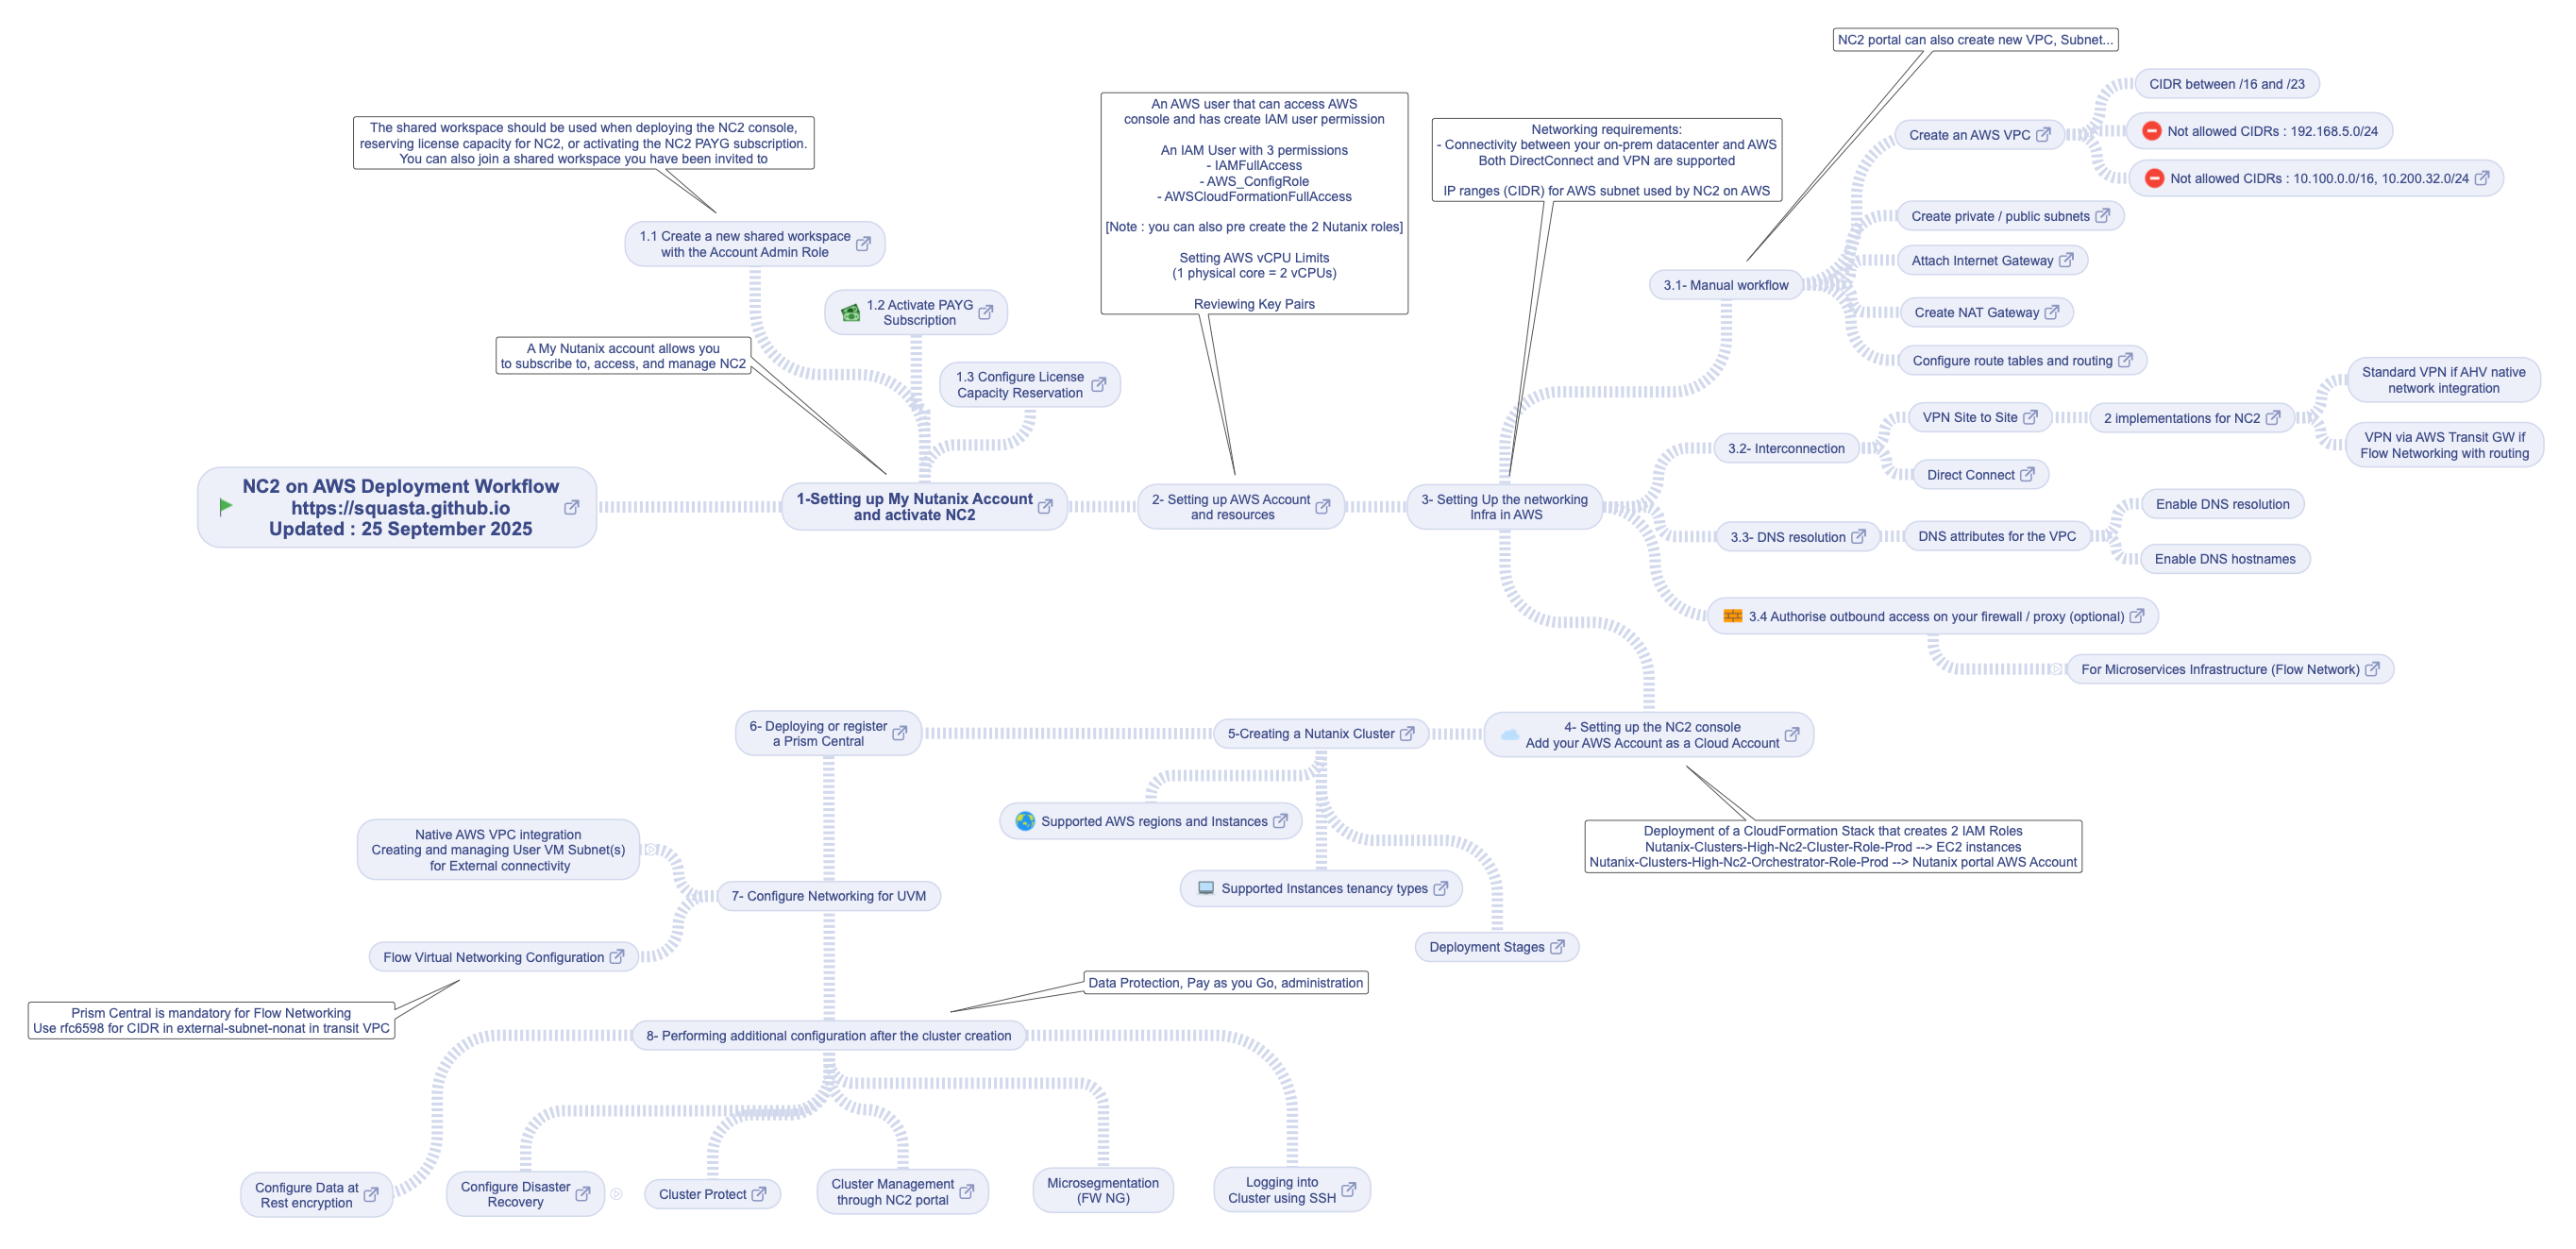
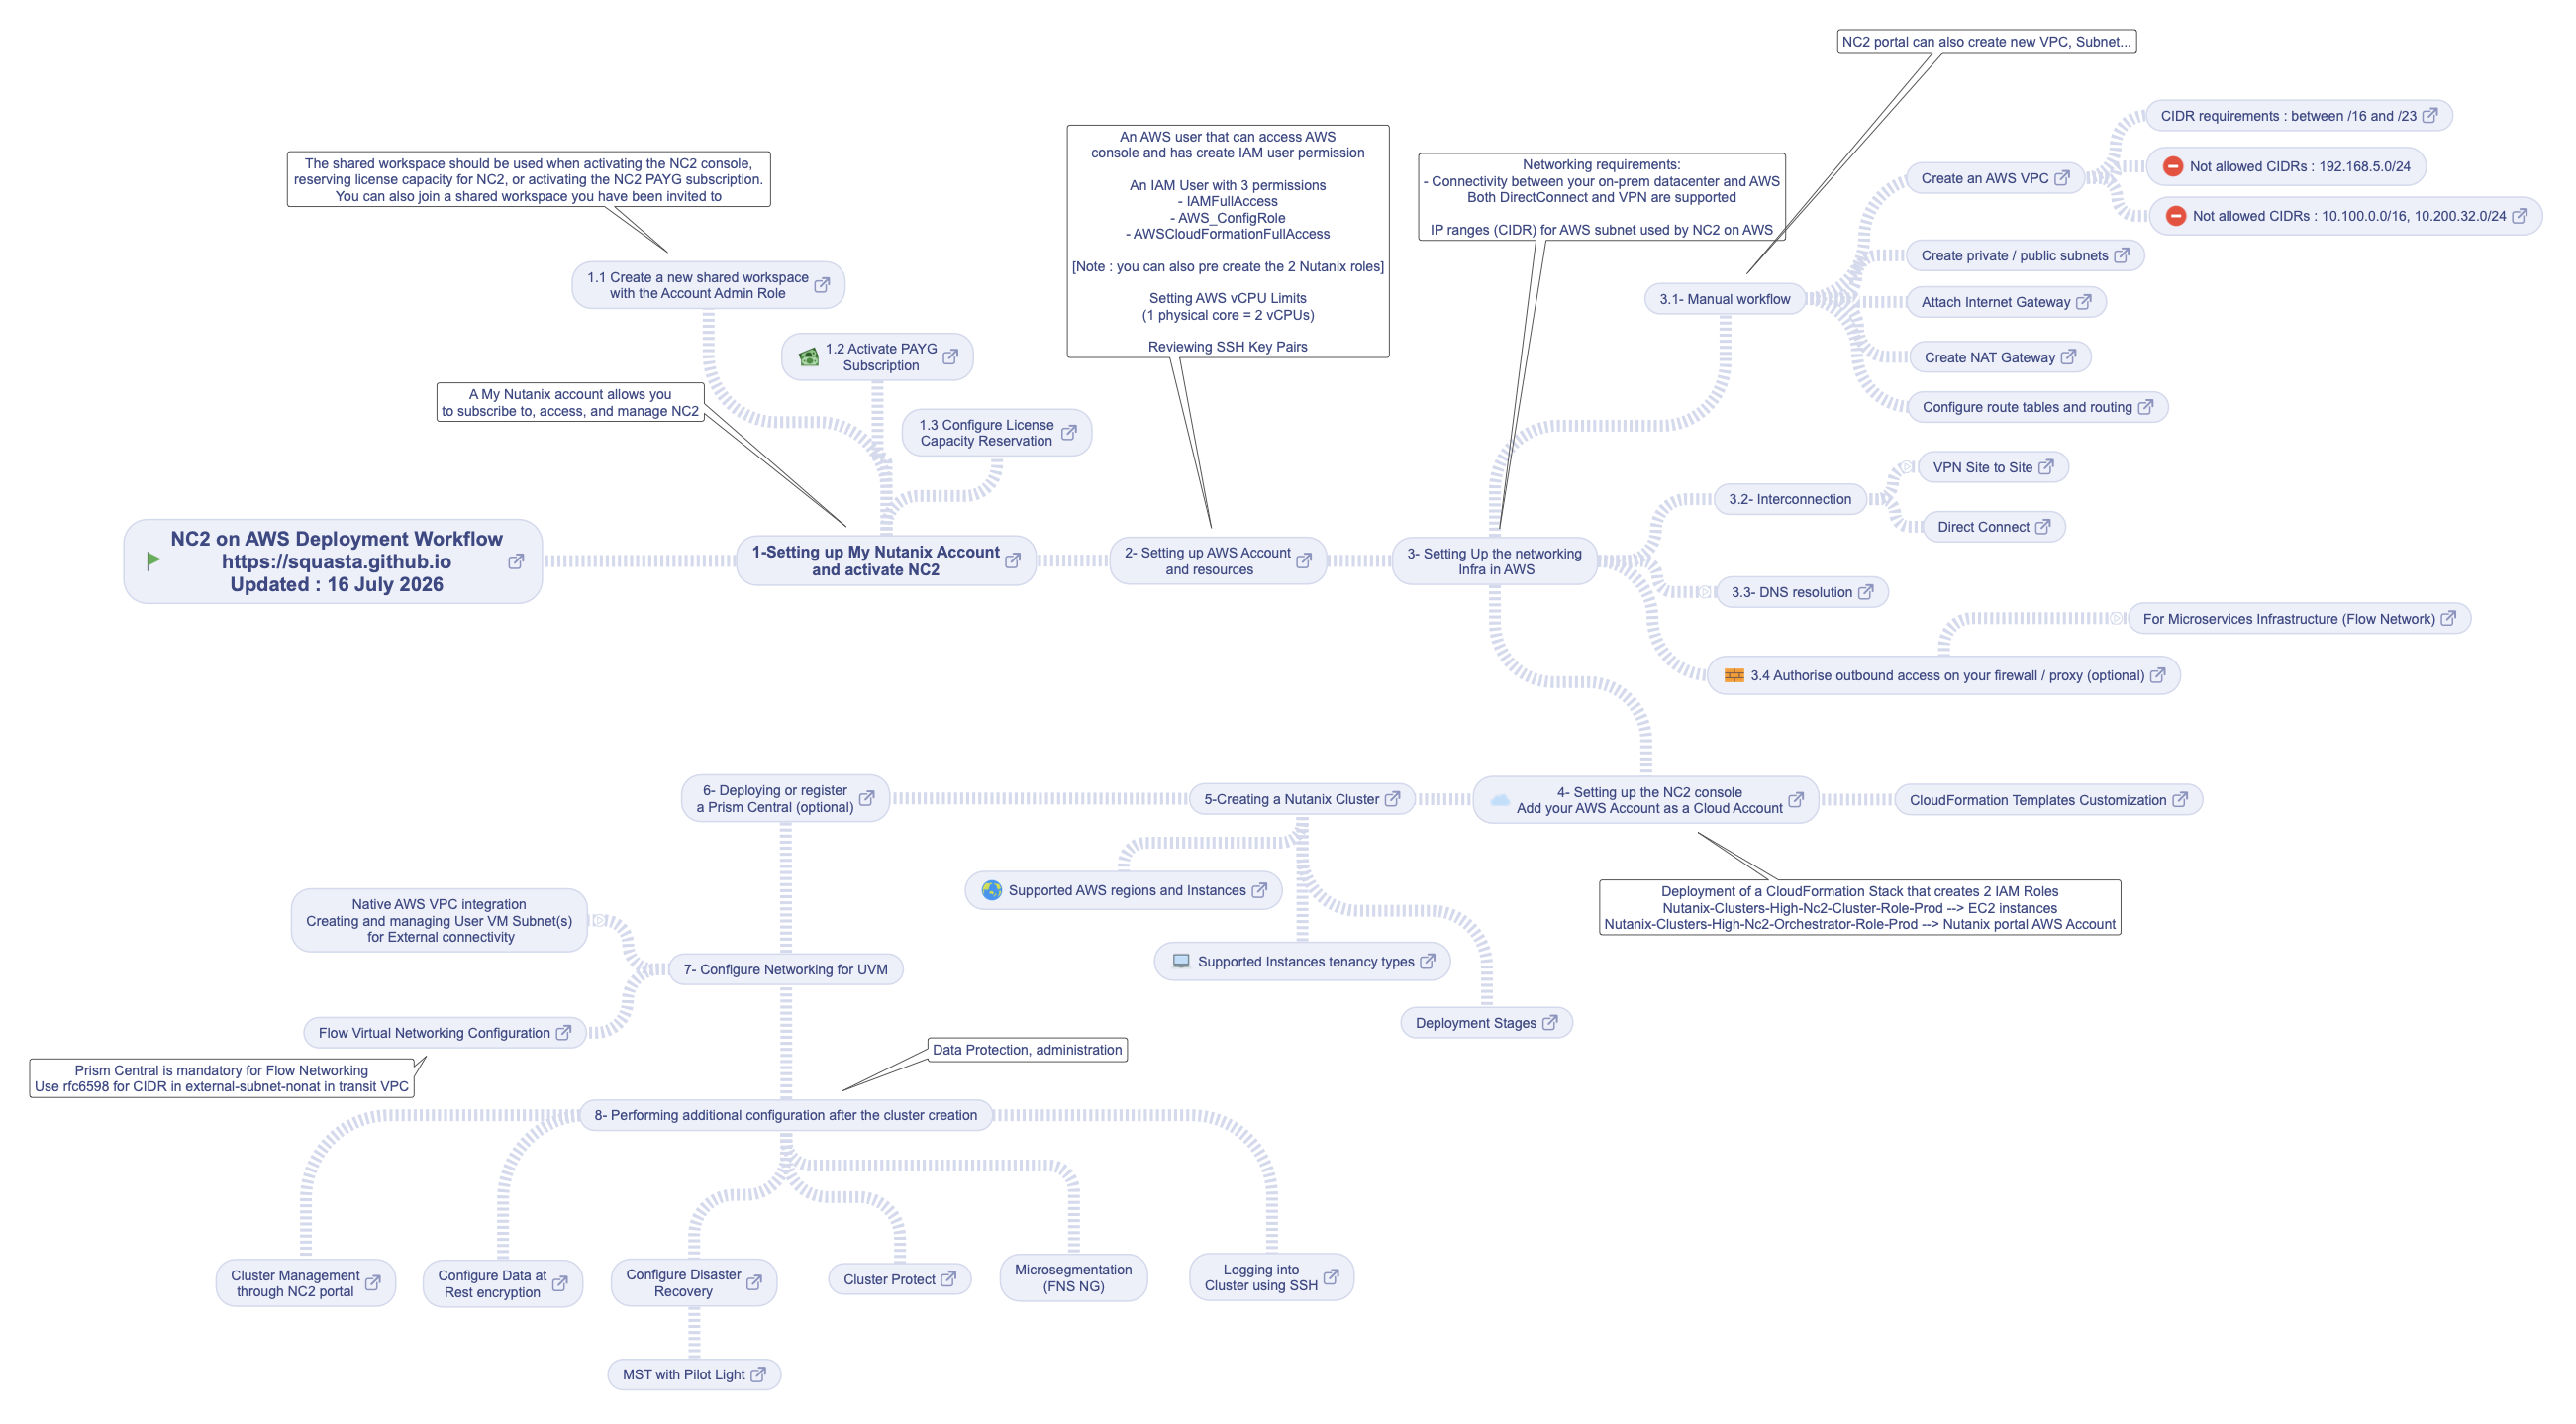
update

Changed region(s): [[0.0623, 0.0, 0.9962, 0.7748], [0.0, 0.6198, 0.5292, 0.9917]]

diff --git a/nc2onawsdeploymentworkflow.html b/nc2onawsdeploymentworkflow.html
@@ -7,42 +7,45 @@
     <body>
         <img src="nc2onawsdeploymentworkflow.png" border="none" usemap="#map"></img>
         <map name="map">
-            <area shape="rect" coords="598,529,614,545" href="https://portal.nutanix.com/page/documents/details?targetId=Nutanix-Cloud-Clusters-Azure:nc2-clusters-azure-requirements-for-nc2-on-azure-c.html" target="_blank"></area>
-            <area shape="rect" coords="1099,529,1115,545" href="https://portal.nutanix.com/page/documents/details?targetId=Nutanix-Clusters-AWS:nc2-clusters-starting-a-nc2-free-trial-t.html" target="_blank"></area>
-            <area shape="rect" coords="1393,529,1409,545" href="https://portal.nutanix.com/page/documents/details?targetId=Nutanix-Clusters-AWS:aws-clusters-aws-requirements-c.html" target="_blank"></area>
-            <area shape="rect" coords="1890,770,1906,786" href="https://portal.nutanix.com/page/documents/details?targetId=Nutanix-Clusters-AWS:aws-clusters-aws-account-add-t.html" target="_blank"></area>
-            <area shape="rect" coords="1483,769,1499,785" href="https://portal.nutanix.com/page/documents/details?targetId=Nutanix-Clusters-AWS:aws-clusters-aws-cluster-create-t.html" target="_blank"></area>
-            <area shape="rect" coords="1348,862,1364,878" href="https://portal.nutanix.com/page/documents/details?targetId=Nutanix-Clusters-AWS:aws-clusters-aws-xi-supported-regions-metals.html" target="_blank"></area>
-            <area shape="rect" coords="945,769,961,785" href="https://portal.nutanix.com/page/documents/details?targetId=Nutanix-Clusters-AWS:aws-nc2-deploying-configuring-prismcentral-t.html" target="_blank"></area>
-            <area shape="rect" coords="609,1257,625,1273" href="https://portal.nutanix.com/page/documents/details?targetId=Nutanix-Clusters-AWS:aws-clusters-aws-backup-and-recovery-c.html" target="_blank"></area>
-            <area shape="rect" coords="570,1370,586,1386" href="https://portal.nutanix.com/page/documents/details?targetId=Disaster-Recovery-DRaaS-Guide-vpc_2024_2:ecd-mst_dr_with_pilot_light_deployment-c.html" target="_blank"></area>
-            <area shape="rect" coords="796,1257,812,1273" href="https://portal.nutanix.com/page/documents/details?targetId=Nutanix-Clusters-AWS:aws-cluster-protect-aws-s3-c.html" target="_blank"></area>
-            <area shape="rect" coords="1016,1254,1032,1270" href="https://portal.nutanix.com/page/documents/details?targetId=Nutanix-Clusters-AWS:aws-clusters-aws-cluster-management-c.html" target="_blank"></area>
-            <area shape="rect" coords="385,1257,401,1273" href="https://portal.nutanix.com/page/documents/details?targetId=Nutanix-Security-Guide-v6_8%3Awc-security-data-encryption-aos-wc-c.html&amp;a=0960a9a533e6378e704a6994d19e98000b436494fb5ad1964d847887d3c7ae63488d6c128249eba2" target="_blank"></area>
-            <area shape="rect" coords="1421,1252,1437,1268" href="https://portal.nutanix.com/page/documents/details?targetId=Nutanix-Clusters-AWS:aws-clusters-aws-using-ssh-log-in-t.html" target="_blank"></area>
-            <area shape="rect" coords="219,786,235,802" href="https://portal.nutanix.com/page/documents/details?targetId=Nutanix-Clusters-AWS:aws-clusters_aws_subnet_add_t_dita.html" target="_blank"></area>
-            <area shape="rect" coords="221,832,237,848" href="https://portal.nutanix.com/page/documents/details?targetId=Nutanix-Clusters-AWS:aws-clusters-aws-network-interface-add-t.html" target="_blank"></area>
-            <area shape="rect" coords="226,888,242,904" href="https://portal.nutanix.com/page/documents/details?targetId=Nutanix-Clusters-AWS:aws-clusters-aws-outbound-internet-access-to-uvms-enable-t.html" target="_blank"></area>
-            <area shape="rect" coords="225,955,241,971" href="https://portal.nutanix.com/page/documents/details?targetId=Nutanix-Clusters-AWS:aws-clusters-aws-load-balancer-inbound-internet-access-to-uvms-enable-t.html" target="_blank"></area>
-            <area shape="rect" coords="645,1005,661,1021" href="https://portal.nutanix.com/page/documents/details?targetId=Nutanix-Clusters-AWS:aws-aws_flow_virtual_networking_configuration_c.html" target="_blank"></area>
-            <area shape="rect" coords="1518,933,1534,949" href="https://portal.nutanix.com/page/documents/details?targetId=Nutanix-Clusters-AWS:nc2-clusters-ec2-instance-tenancy-types-c.html" target="_blank"></area>
-            <area shape="rect" coords="1642,995,1658,1011" href="https://portal.nutanix.com/page/documents/details?targetId=Nutanix-Clusters-AWS:aws-clusters-aws-deployment-models-c.html" target="_blank"></area>
-            <area shape="rect" coords="2157,135,2173,151" href="https://portal.nutanix.com/page/documents/details?targetId=Nutanix-Clusters-AWS:aws-aws-resource-setup-manual-t.html" target="_blank"></area>
-            <area shape="rect" coords="2621,181,2637,197" href="https://portal.nutanix.com/page/documents/details?targetId=Prism-Central-Guide-vpc_7_3:mul-cmsp-req-and-limitations-pc-r.html" target="_blank"></area>
-            <area shape="rect" coords="2219,220,2235,236" href="https://portal.nutanix.com/page/documents/details?targetId=Nutanix-Clusters-AWS:aws-aws-create-subnet-t.html" target="_blank"></area>
-            <area shape="rect" coords="2181,267,2197,283" href="https://portal.nutanix.com/page/documents/details?targetId=Nutanix-Clusters-AWS:aws-aws-create-internet-gateway-t.html" target="_blank"></area>
-            <area shape="rect" coords="2166,323,2182,339" href="https://portal.nutanix.com/page/documents/details?targetId=Nutanix-Clusters-AWS:aws-aws-create-NAT-GW-t.html" target="_blank"></area>
-            <area shape="rect" coords="2244,373,2260,389" href="https://portal.nutanix.com/page/documents/details?targetId=Nutanix-Clusters-AWS:aws-aws-configure-route-t.html" target="_blank"></area>
-            <area shape="rect" coords="2143,434,2159,450" href="https://docs.aws.amazon.com/vpn/latest/s2svpn/VPC_VPN.html" target="_blank"></area>
-            <area shape="rect" coords="2400,434,2416,450" href="https://portal.nutanix.com/page/documents/solutions/details?targetId=BP-2202-NC2-AWS-Networking:creating-amazon-web-services-site-to-site-virtual-private-network-connections.html" target="_blank"></area>
-            <area shape="rect" coords="2140,494,2156,510" href="https://docs.aws.amazon.com/directconnect/latest/UserGuide/Welcome.html" target="_blank"></area>
-            <area shape="rect" coords="1961,560,1977,576" href="https://portal.nutanix.com/page/documents/details?targetId=Nutanix-Clusters-AWS:aws-clusters-aws-requirements-c.html" target="_blank"></area>
-            <area shape="rect" coords="2256,644,2272,660" href="https://portal.nutanix.com/page/documents/details?targetId=Nutanix-Clusters-AWS:aws-clusters-aws-port-endpoints-requirements-c.html" target="_blank"></area>
-            <area shape="rect" coords="2505,701,2521,717" href="https://portal.nutanix.com/page/documents/kbs/details?targetId=kA07V000000LevaSAC" target="_blank"></area>
-            <area shape="rect" coords="2646,743,2662,759" href="https://portal.nutanix.com/page/documents/list?type=software&amp;filterKey=software&amp;filterVal=Ports%20and%20Protocols&amp;productType=Microservices%20Infrastructure" target="_blank"></area>
-            <area shape="rect" coords="907,250,923,266" href="https://portal.nutanix.com/page/documents/details?targetId=Xi-Cloud-Services-Administration-Guide:adm-nutanix-cloud-creating-workspace-t.html" target="_blank"></area>
-            <area shape="rect" coords="1156,399,1172,415" href="https://portal.nutanix.com/page/documents/details?targetId=Nutanix-Clusters-AWS:nc2-clusters-reserving-license-capacity-for-use-on-nc2-t.html" target="_blank"></area>
-            <area shape="rect" coords="1036,323,1052,339" href="https://portal.nutanix.com/page/documents/details?targetId=Nutanix-Clusters-AWS:nc2-clusters-payg-subscriptions-c.html" target="_blank"></area>
+            <area shape="rect" coords="513,559,529,575" href="https://portal.nutanix.com/page/documents/details?targetId=Nutanix-Cloud-Clusters-Azure:nc2-clusters-azure-requirements-for-nc2-on-azure-c.html" target="_blank"></area>
+            <area shape="rect" coords="1015,558,1031,574" href="https://portal.nutanix.com/page/documents/details?targetId=Nutanix-Clusters-AWS:nc2-clusters-starting-a-nc2-free-trial-t.html" target="_blank"></area>
+            <area shape="rect" coords="1309,558,1325,574" href="https://portal.nutanix.com/page/documents/details?targetId=Nutanix-Clusters-AWS:aws-clusters-aws-requirements-c.html" target="_blank"></area>
+            <area shape="rect" coords="1806,800,1822,816" href="https://portal.nutanix.com/page/documents/details?targetId=Nutanix-Clusters-AWS:aws-clusters-aws-account-add-t.html" target="_blank"></area>
+            <area shape="rect" coords="1398,799,1414,815" href="https://portal.nutanix.com/page/documents/details?targetId=Nutanix-Clusters-AWS:aws-clusters-aws-cluster-create-t.html" target="_blank"></area>
+            <area shape="rect" coords="1264,891,1280,907" href="https://portal.nutanix.com/page/documents/details?targetId=Nutanix-Clusters-AWS:aws-clusters-aws-xi-supported-regions-metals.html" target="_blank"></area>
+            <area shape="rect" coords="867,798,883,814" href="https://portal.nutanix.com/page/documents/details?targetId=Nutanix-Clusters-AWS:aws-nc2-deploying-configuring-prismcentral-t.html" target="_blank"></area>
+            <area shape="rect" coords="754,1287,770,1303" href="https://portal.nutanix.com/page/documents/details?targetId=Nutanix-Clusters-AWS:aws-clusters-aws-backup-and-recovery-c.html" target="_blank"></area>
+            <area shape="rect" coords="758,1380,774,1396" href="https://portal.nutanix.com/page/documents/details?targetId=Disaster-Recovery-DRaaS-Guide-vpc_2024_2:ecd-mst_dr_with_pilot_light_deployment-c.html" target="_blank"></area>
+            <area shape="rect" coords="950,1283,966,1299" href="https://portal.nutanix.com/page/documents/details?targetId=Nutanix-Clusters-AWS:aws-cluster-protect-aws-s3-c.html" target="_blank"></area>
+            <area shape="rect" coords="369,1287,385,1303" href="https://portal.nutanix.com/page/documents/details?targetId=Nutanix-Clusters-AWS:aws-clusters-aws-cluster-management-c.html" target="_blank"></area>
+            <area shape="rect" coords="558,1288,574,1304" href="https://portal.nutanix.com/page/documents/details?targetId=Nutanix-Security-Guide-v6_8%3Awc-security-data-encryption-aos-wc-c.html&amp;a=0960a9a533e6378e704a6994d19e98000b436494fb5ad1964d847887d3c7ae63488d6c128249eba2" target="_blank"></area>
+            <area shape="rect" coords="1337,1282,1353,1298" href="https://portal.nutanix.com/page/documents/details?targetId=Nutanix-Clusters-AWS:aws-clusters-aws-using-ssh-log-in-t.html" target="_blank"></area>
+            <area shape="rect" coords="135,815,151,831" href="https://portal.nutanix.com/page/documents/details?targetId=Nutanix-Clusters-AWS:aws-clusters_aws_subnet_add_t_dita.html" target="_blank"></area>
+            <area shape="rect" coords="136,862,152,878" href="https://portal.nutanix.com/page/documents/details?targetId=Nutanix-Clusters-AWS:aws-clusters-aws-network-interface-add-t.html" target="_blank"></area>
+            <area shape="rect" coords="141,918,157,934" href="https://portal.nutanix.com/page/documents/details?targetId=Nutanix-Clusters-AWS:aws-clusters-aws-outbound-internet-access-to-uvms-enable-t.html" target="_blank"></area>
+            <area shape="rect" coords="140,985,156,1001" href="https://portal.nutanix.com/page/documents/details?targetId=Nutanix-Clusters-AWS:aws-clusters-aws-load-balancer-inbound-internet-access-to-uvms-enable-t.html" target="_blank"></area>
+            <area shape="rect" coords="561,1035,577,1051" href="https://portal.nutanix.com/page/documents/details?targetId=Nutanix-Clusters-AWS:aws-aws_flow_virtual_networking_configuration_c.html" target="_blank"></area>
+            <area shape="rect" coords="1434,963,1450,979" href="https://portal.nutanix.com/page/documents/details?targetId=Nutanix-Clusters-AWS:nc2-clusters-ec2-instance-tenancy-types-c.html" target="_blank"></area>
+            <area shape="rect" coords="1558,1025,1574,1041" href="https://portal.nutanix.com/page/documents/details?targetId=Nutanix-Clusters-AWS:aws-clusters-aws-deployment-models-c.html" target="_blank"></area>
+            <area shape="rect" coords="2194,799,2210,815" href="https://portal.nutanix.com/page/documents/details?targetId=Nutanix-Clusters-AWS:aws-cluster-custom-cloudformation-stack-r.html" target="_blank"></area>
+            <area shape="rect" coords="2075,172,2091,188" href="https://portal.nutanix.com/page/documents/details?targetId=Nutanix-Clusters-AWS:aws-aws-resource-setup-manual-t.html" target="_blank"></area>
+            <area shape="rect" coords="2446,109,2462,125" href="https://portal.nutanix.com/page/documents/details?targetId=Nutanix-Clusters-AWS:aws-clusters-aws-requirements-c.html" target="_blank"></area>
+            <area shape="rect" coords="2537,210,2553,226" href="https://portal.nutanix.com/page/documents/details?targetId=Prism-Central-Guide-vpc_7_3:mul-cmsp-req-and-limitations-pc-r.html" target="_blank"></area>
+            <area shape="rect" coords="2135,250,2151,266" href="https://portal.nutanix.com/page/documents/details?targetId=Nutanix-Clusters-AWS:aws-aws-create-subnet-t.html" target="_blank"></area>
+            <area shape="rect" coords="2097,297,2113,313" href="https://portal.nutanix.com/page/documents/details?targetId=Nutanix-Clusters-AWS:aws-aws-create-internet-gateway-t.html" target="_blank"></area>
+            <area shape="rect" coords="2081,352,2097,368" href="https://portal.nutanix.com/page/documents/details?targetId=Nutanix-Clusters-AWS:aws-aws-create-NAT-GW-t.html" target="_blank"></area>
+            <area shape="rect" coords="2159,403,2175,419" href="https://portal.nutanix.com/page/documents/details?targetId=Nutanix-Clusters-AWS:aws-aws-configure-route-t.html" target="_blank"></area>
+            <area shape="rect" coords="2059,463,2075,479" href="https://docs.aws.amazon.com/vpn/latest/s2svpn/VPC_VPN.html" target="_blank"></area>
+            <area shape="rect" coords="2316,464,2332,480" href="https://portal.nutanix.com/page/documents/solutions/details?targetId=BP-2202-NC2-AWS-Networking:creating-amazon-web-services-site-to-site-virtual-private-network-connections.html" target="_blank"></area>
+            <area shape="rect" coords="2590,493,2606,509" href="https://docs.aws.amazon.com/whitepapers/latest/aws-vpc-connectivity-options/aws-transit-gateway-vpn.html" target="_blank"></area>
+            <area shape="rect" coords="2055,524,2071,540" href="https://docs.aws.amazon.com/directconnect/latest/UserGuide/Welcome.html" target="_blank"></area>
+            <area shape="rect" coords="1877,590,1893,606" href="https://portal.nutanix.com/page/documents/details?targetId=Nutanix-Clusters-AWS:aws-clusters-aws-requirements-c.html" target="_blank"></area>
+            <area shape="rect" coords="2171,674,2187,690" href="https://portal.nutanix.com/page/documents/details?targetId=Nutanix-Clusters-AWS:aws-clusters-aws-port-endpoints-requirements-c.html" target="_blank"></area>
+            <area shape="rect" coords="2465,616,2481,632" href="https://portal.nutanix.com/page/documents/kbs/details?targetId=kA07V000000LevaSAC" target="_blank"></area>
+            <area shape="rect" coords="2562,773,2578,789" href="https://portal.nutanix.com/page/documents/list?type=software&amp;filterKey=software&amp;filterVal=Ports%20and%20Protocols&amp;productType=Microservices%20Infrastructure" target="_blank"></area>
+            <area shape="rect" coords="822,280,838,296" href="https://portal.nutanix.com/page/documents/details?targetId=Xi-Cloud-Services-Administration-Guide:adm-nutanix-cloud-creating-workspace-t.html" target="_blank"></area>
+            <area shape="rect" coords="1072,429,1088,445" href="https://portal.nutanix.com/page/documents/details?targetId=Nutanix-Clusters-AWS:nc2-clusters-reserving-license-capacity-for-use-on-nc2-t.html" target="_blank"></area>
+            <area shape="rect" coords="952,352,968,368" href="https://portal.nutanix.com/page/documents/details?targetId=Nutanix-Clusters-AWS:nc2-clusters-payg-subscriptions-c.html" target="_blank"></area>
         </map>
     </body>
 </html>

diff --git a/4goldensignalsincloudnativeobservability.html b/4goldensignalsincloudnativeobservability.html
@@ -1,0 +1,10 @@
+
+<html>
+    <head>
+        <title>4GoldenSignalsinCloudNativeObservability</title>
+        <link rel="shortcut icon" type="image/png" href="favicon.png"></link>
+    </head>
+    <body>
+        <img src="4goldensignalsincloudnativeobservability.png" border="none"></img>
+    </body>
+</html>

diff --git a/README.md b/README.md
@@ -259,4 +259,3 @@ You will find here a lot of mindmaps, workflows full of links to documentations 
 - [Google Cloud GenAI Leader - Securing AI](googlecloudgenaileader-securingai.html) [ -- PDF version](googlecloudgenaileader-securingai.pdf)
 
 - [Google Cloud GenAI Leader - Prompt techniques ](googlegenaileader-prompting.html) [ -- PDF version](googlegenaileader-prompting.pdf)
-s